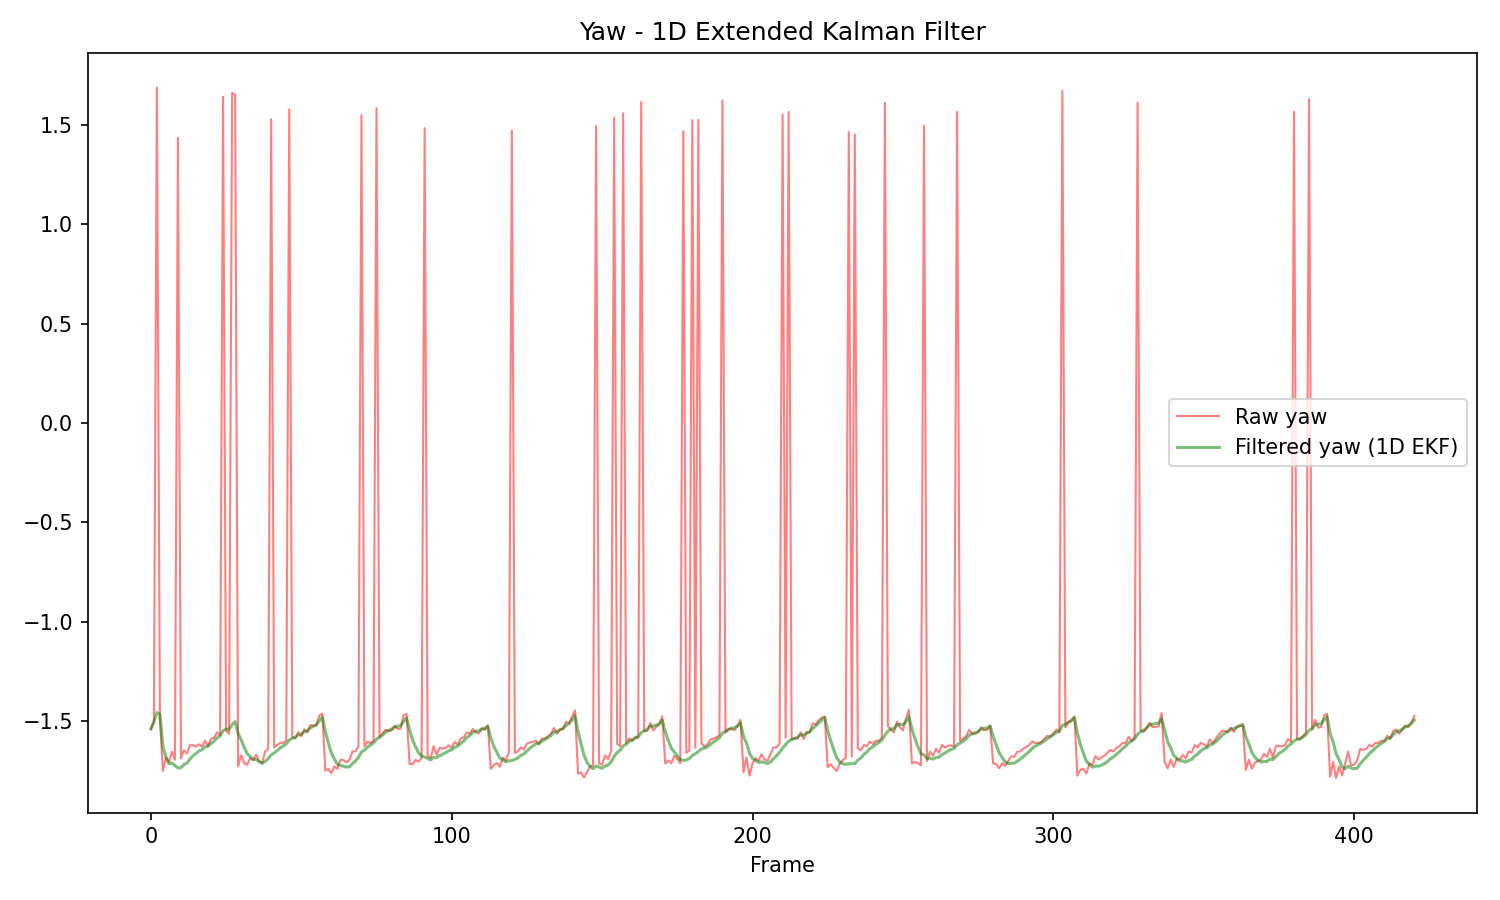
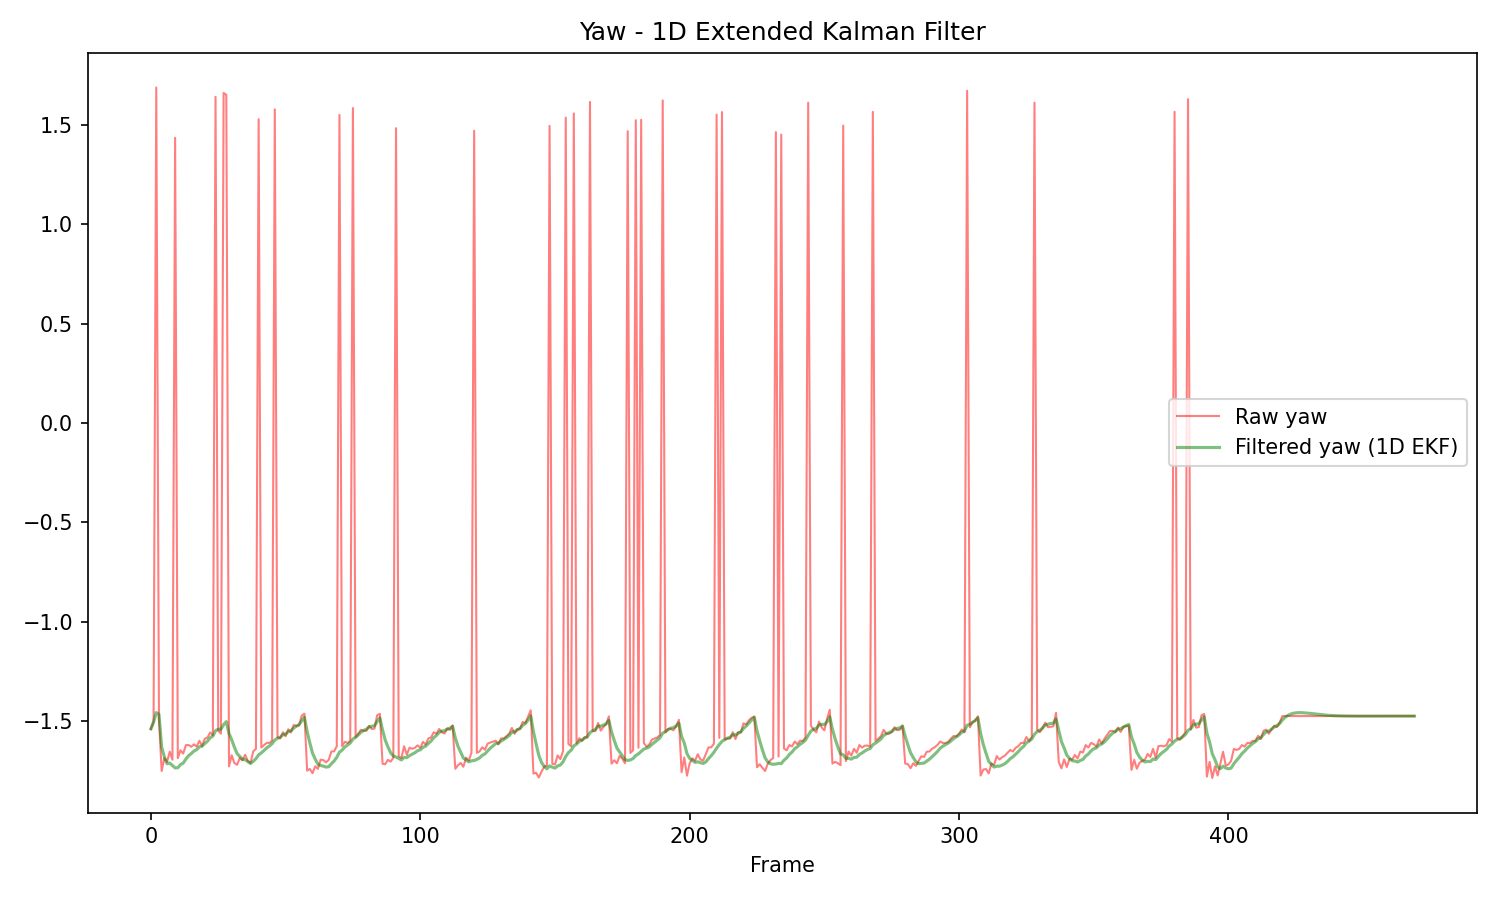
delete demove repetition

diff --git a/扩展卡尔曼滤波器/work6.cpp b/扩展卡尔曼滤波器/work6.cpp
@@ -28,9 +28,7 @@ std::vector<Eigen::VectorXd> read_armor_data(const std::string & path)
       std::getline(ss, token, ',');
       z(i) = std::stod(token);
     }
-    if (data.empty() || z != data.back()) {
-      data.push_back(z);
-    }
+    data.push_back(z);
   }
   return data;
 }

diff --git a/扩展卡尔曼滤波器/yaw_1d_ekf.cpp b/扩展卡尔曼滤波器/yaw_1d_ekf.cpp
@@ -27,9 +27,7 @@ std::vector<double> read_yaw_data(const std::string & path)
       std::getline(ss, token, ',');
     }
     double yaw = std::stod(token);
-    if (data.empty() || yaw != data.back()) {
-      data.push_back(yaw);
-    }
+    data.push_back(yaw);
   }
   return data;
 }
